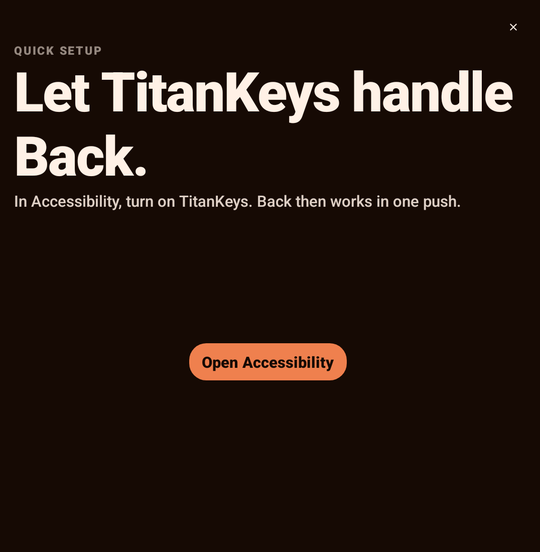
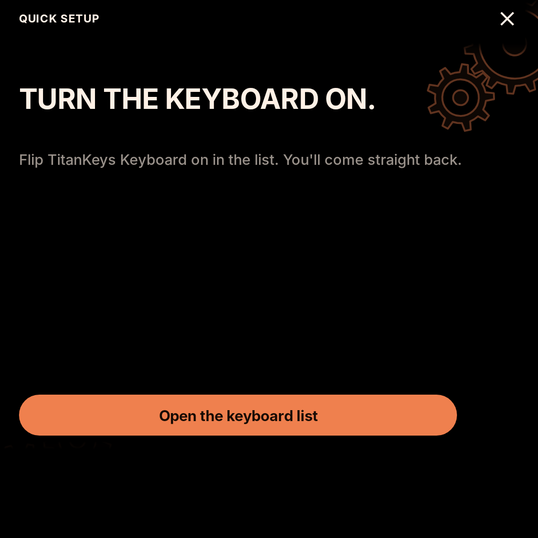
README screenshots from 2.1: the typo slide, setup, the playground and Settings; unused old images gone

diff --git a/README.md b/README.md
@@ -15,13 +15,13 @@ Type like you always have, swipe whole words across the keys, steer the cursor f
 > TitanKeys is an independent, modified version of [Atlas](https://github.com/juleshall4/atlas) by Julian Hall. Atlas is the original project and the base of everything here. This fork started in November 2026, and its changes are in the git history. It is not made by, affiliated with, or endorsed by Atlas, FUTO, or Unihertz.
 
 <p align="center">
-  <img src="assets/screenshots/guide-end.png" width="540" alt="The end of the guide, with the TitanKeys logo">
+  <img src="assets/screenshots/guide-type.png" width="540" alt="The guide's first slide: Make a typo. We'll fix it., with a line of typos in the text field">
 </p>
 
 <p align="center">
-  <img src="assets/screenshots/guide-setup.png" width="260" alt="The guide's setup slide: Let TitanKeys handle Back, with a button that opens Accessibility">
-  <img src="assets/screenshots/guide-type.png" width="260" alt="The guide's first slide, with the line to follow, the text field and a drawing of the keys">
-  <img src="assets/screenshots/playground.png" width="260" alt="The playground: the TitanKeys name, a line to follow, the text field and the keys">
+  <img src="assets/screenshots/guide-setup.png" width="260" alt="The guide's setup: Turn the keyboard on, with a button that opens the keyboard list">
+  <img src="assets/screenshots/playground.png" width="260" alt="The playground: Practice. You need it., a line to follow, the text field and the keys">
+  <img src="assets/screenshots/settings.png" width="260" alt="Settings: a switch for each part of typing">
 </p>
 
 ## What this is
